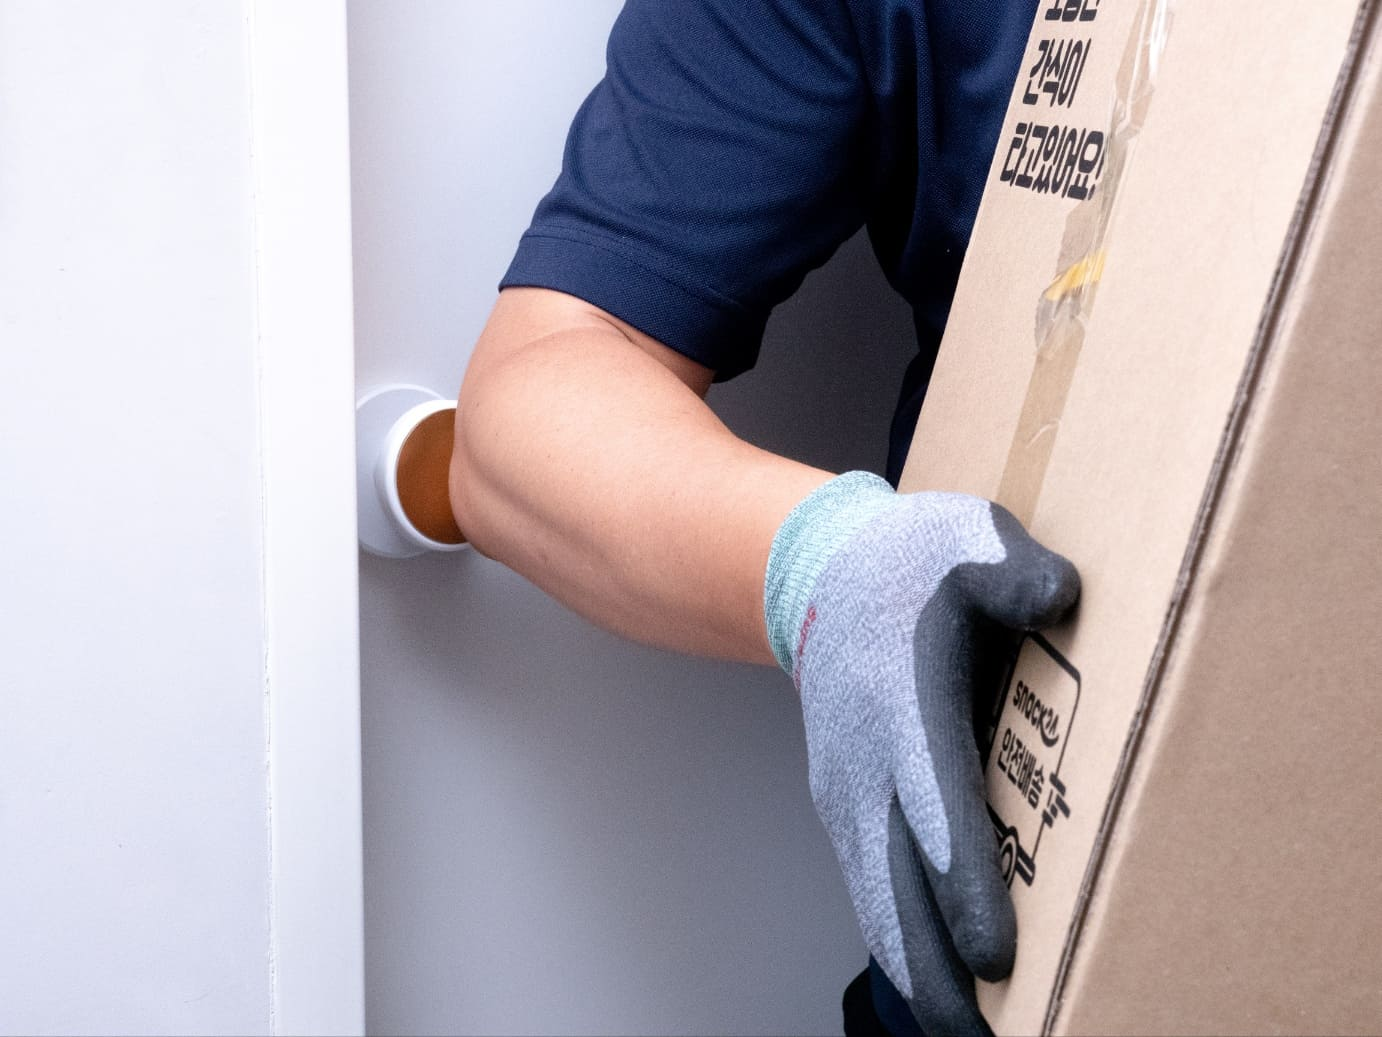
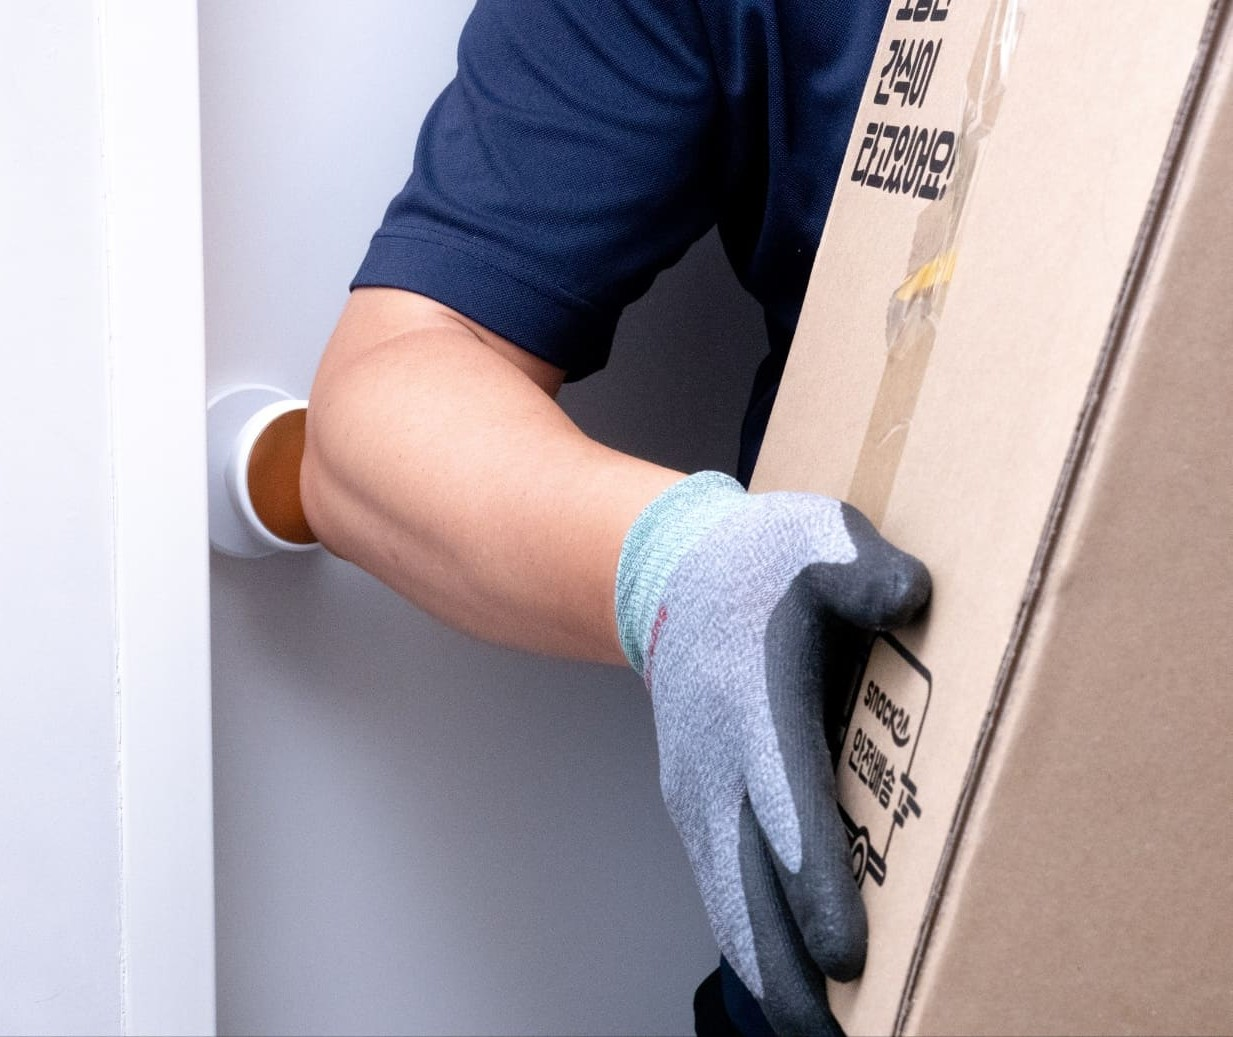
몽태 수정 및 갤러리 이미지 수정

diff --git a/index.html b/index.html
@@ -131,7 +131,8 @@
         <div class="images imageFlex_pc" data-aos="fade-up" data-aos-duration="2000">
           <div class="imageFlex">
             <img src="img/gallery/2.jpg"  >
-            <img src="img/gallery/7.jpg"  >
+            <img src="img/gallery/7.jpg"   >
+            <img src="img/gallery/9.jpg"   >
           </div>
         </div>
         <div class="images imageFlex_pc" data-aos="fade-up" data-aos-duration="2000">
@@ -199,7 +200,6 @@
       </div>
       <!-- 구매처-->
       <hr class="featurette-divider " id="page_buy">
-
       <div class="row featurette " id="content_buy" data-aos="fade-up" data-aos-duration="2000">
 
         <div class="col-lg-4 ">
@@ -263,64 +263,19 @@
 
       <div class="row d-flex justify-content-center" data-aos="fade-up" data-aos-duration="2000">
         <div class="col-lg-4">
-          <svg class="bd-placeholder-img rounded-circle" width="140" height="140" xmlns="http://www.w3.org/2000/svg"
-            role="img" aria-label="Placeholder" preserveAspectRatio="xMidYMid slice" focusable="false">
-            <title>Placeholder</title>
-            <rect width="100%" height="100%" fill="var(--bs-secondary-color)" />
-          </svg>
+          <img src="img/mongtae_logo.png" class="bd-placeholder-img rounded-circle" width="140" height="140">
           <h2 class="fw-normal mt-2">몽태</h2>
-          <p>안녕하세요. 몽태입니다.
+          <p>안녕하세요. 몽태 입니다.<br>
             몽태는 '몽태'는 夢(꿈 몽)과 泰(클 태)의 합성어로, '큰 꿈'의  의미를 담고 있습니다.
             세상에 필요하고 누구나 사용가능한 제품을 만드는게 꿈인 만큼
             창의적인 아이디어에 높은 기술력을 가진 업체와 소통하고 고민하며
             상상을 현실로 옮기고 있습니다.
-            더 좋은 제품으로 만나뵙겠습니다. 감사합니다.🤗</p>
-          <p><a class="btn btn-secondary" href="#">인스타그램 &raquo;</a></p>
-        </div><!-- /.col-lg-4 -->
-      </div><!-- /.row -->
-
-
-<!--
-      <hr class="featurette-divider">
-
-      <div class="row">
-        <div class="col-lg-4">
-          <svg class="bd-placeholder-img rounded-circle" width="140" height="140" xmlns="http://www.w3.org/2000/svg"
-            role="img" aria-label="Placeholder" preserveAspectRatio="xMidYMid slice" focusable="false">
-            <title>Placeholder</title>
-            <rect width="100%" height="100%" fill="var(--bs-secondary-color)" />
-          </svg>
-          <h2 class="fw-normal">Heading</h2>
-          <p>Some representative placeholder content for the three columns of text below the carousel. This is the first
-            column.</p>
-          <p><a class="btn btn-secondary" href="#">View details &raquo;</a></p>
-        </div>
-        <div class="col-lg-4">
-          <svg class="bd-placeholder-img rounded-circle" width="140" height="140" xmlns="http://www.w3.org/2000/svg"
-            role="img" aria-label="Placeholder" preserveAspectRatio="xMidYMid slice" focusable="false">
-            <title>Placeholder</title>
-            <rect width="100%" height="100%" fill="var(--bs-secondary-color)" />
-          </svg>
-          <h2 class="fw-normal">Heading</h2>
-          <p>Another exciting bit of representative placeholder content. This time, we've moved on to the second column.
-          </p>
-          <p><a class="btn btn-secondary" href="#">View details &raquo;</a></p>
-        </div>
-        <div class="col-lg-4">
-          <svg class="bd-placeholder-img rounded-circle" width="140" height="140" xmlns="http://www.w3.org/2000/svg"
-            role="img" aria-label="Placeholder" preserveAspectRatio="xMidYMid slice" focusable="false">
-            <title>Placeholder</title>
-            <rect width="100%" height="100%" fill="var(--bs-secondary-color)" />
-          </svg>
-          <h2 class="fw-normal">Heading</h2>
-          <p>And lastly this, the third column of representative placeholder content.</p>
-          <p><a class="btn btn-secondary" href="#">View details &raquo;</a></p>
+            더 좋은 제품으로 만나뵙겠습니다.<br> 감사합니다🤗</p>
+          <p><a class="btn btn-secondary" href="https://www.instagram.com/montaecompany/" target="_blank">인스타그램 &raquo;</a></p>
         </div>
       </div>
-    -->
-      <!-- /END THE FEATURETTES -->
 
-    </div><!-- /.container -->
+    </div>
 
 
     <!-- FOOTER -->

diff --git a/basic.css b/basic.css
@@ -60,9 +60,6 @@ body {
 -------------------------------------------------- */
 
 /* Carousel base class */
-.carousel {
-
-}
 
 #myCarousel {
   padding:0px;
@@ -167,22 +164,23 @@ body {
   height:auto;
   display: grid;
   grid-template-columns: auto auto;
-  gap: 1.3rem;
+  gap: 1.1rem;
   grid-auto-flow: row dense ;
 }
 .gallery_container .images {
   width: 100%;
   height: auto;
 }
+.gallery_container .images .imageFlex{
+  align-items: center;
+}
 .gallery_container .images img {
   width: 100%;
-  height: 100%;
+  height: auto;
   object-fit: contain;
   border-radius: 11px;
 }
-.container {
 
-}
 .imageFlex_pc{
   display: none;
 }
@@ -203,6 +201,9 @@ body {
   z-index:10;
 }
 
+.imageFlex img{
+  border-radius: 11px;
+}
 
 /* Small devices (portrait tablets and large phones, 512px and up) */
 @media only screen and (min-width: 32rem) { 
